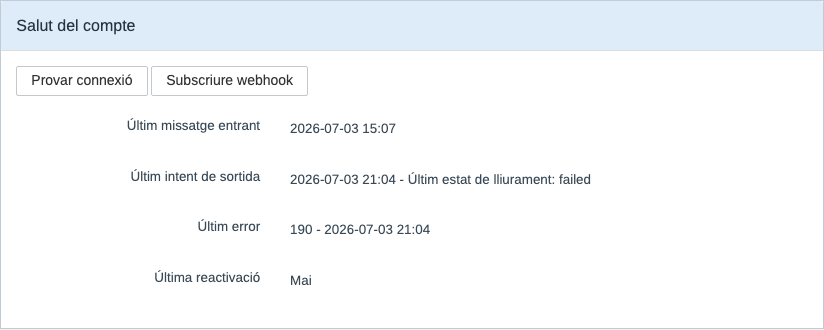
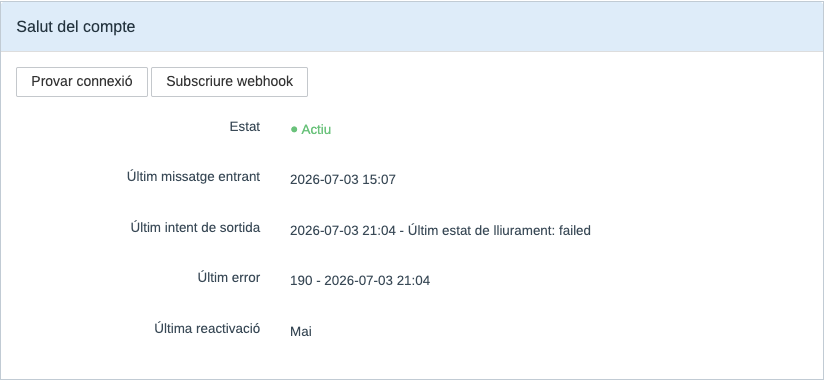
Add the Dutch screenshots and refresh the account health panel
The Dutch README pointed at docs/en with a line saying the images showed the
English interface. FreeScout core ships an nl locale, so the whole interface
can be Dutch, not just the module strings. One image directory per language,
same as the other three.

Taking them surfaced a stale image: the account health panel gained a Status
row in v1.8.1, and the ca/en/es screenshots still showed the panel without it,
which is exactly the change that release was about. Regenerated in all three.

Two fixes in README.nl.md while it was open:

- The troubleshooting table quoted `⚠ Mailbox unlinked` in English, but that
  string is translated and Resources/lang/nl renders it `Mailbox ontkoppeld`,
  so a reader on a Dutch interface would not find it on their screen.
- The link to the release history carried the anchor #whats-new-in-v191, which
  dies at the next release because our headings carry the version number.

diff --git a/README.nl.md b/README.nl.md
@@ -19,27 +19,25 @@ Het project is openbaar en draait sinds v1.0 in echte productie. Het groeit mee 
 
 ## Schermafbeeldingen
 
-De afbeeldingen hieronder tonen de Engelstalige interface; de module zelf spreekt sinds v1.9.1 ook Nederlands.
-
 *Overzicht van ingestelde WhatsApp-kanalen:*
 
-![Overzicht van WhatsApp-accounts](docs/en/accounts-list.png)
+![Overzicht van WhatsApp-accounts](docs/nl/accounts-list.png)
 
 *Een nieuw kanaal toevoegen (het kanaal-eerst-formulier):*
 
-![Formulier om een kanaal toe te voegen](docs/en/add-channel.png)
+![Formulier om een kanaal toe te voegen](docs/nl/add-channel.png)
 
 *Een WhatsApp-gesprek zoals een medewerker het ziet, met het kanaallabel dat FreeScout zelf tekent:*
 
-![Weergave van een WhatsApp-gesprek](docs/en/conversation-view.png)
+![Weergave van een WhatsApp-gesprek](docs/nl/conversation-view.png)
 
 *De verbindingsstatus per account, met de knoppen voor een live verbindingstest en het aanmelden van de webhook:*
 
-![Paneel met de verbindingsstatus](docs/en/account-health.png)
+![Paneel met de verbindingsstatus](docs/nl/account-health.png)
 
 *De melding die in een gesprek verschijnt zodra het venster van 24 uur verlopen lijkt:*
 
-![Melding bij een verlopen venster](docs/en/expired-window-banner.png)
+![Melding bij een verlopen venster](docs/nl/expired-window-banner.png)
 
 ## Wat de module wel en niet doet
 
@@ -67,7 +65,7 @@ Wat er bewust buiten valt:
 
 ## Wat is er nieuw
 
-De release-geschiedenis staat in de [Engelse README](README.md#whats-new-in-v191) en op de [Releases-pagina](https://github.com/losimo/freescout-meta-whatsapp/releases).
+De release-geschiedenis staat in de [Engelse README](README.md) en op de [Releases-pagina](https://github.com/losimo/freescout-meta-whatsapp/releases).
 
 Die staat bewust niet in deze vertaling. Het is het enige deel dat bij elke release groeit en het wordt in het Engels geschreven, dus een Nederlandse kopie loopt altijd achter. De rest van deze pagina verandert zelden.
 
@@ -244,7 +242,7 @@ Voordat je van testen naar productie gaat:
 | Meta kan de webhook niet verifiëren | URL niet openbaar bereikbaar, ongeldig certificaat of verkeerd verify token |
 | Meta krijgt 403 op webhook-POST's | Onbekende `phone_number_id`, inactief account of ongeldige HMAC-handtekening |
 | Berichten komen binnen, antwoorden gaan niet weg | Fout `131047` (venster van 24 uur) of fout `190` (verlopen token) |
-| Bij het account staat `⚠ Mailbox unlinked` | De gekoppelde mailbox is verwijderd of niet meer te vinden |
+| Bij het account staat `⚠ Mailbox ontkoppeld` | De gekoppelde mailbox is verwijderd of niet meer te vinden |
 | Er wordt helemaal niets verwerkt | De queue worker ligt stil (`php artisan queue:work`) |
 | Een reparatie uit een module-update lijkt niet aan te slaan | De queue worker draait door met oude code in het geheugen. Cron herstarten laadt hem niet opnieuw; draai `php artisan queue:restart` |
 
